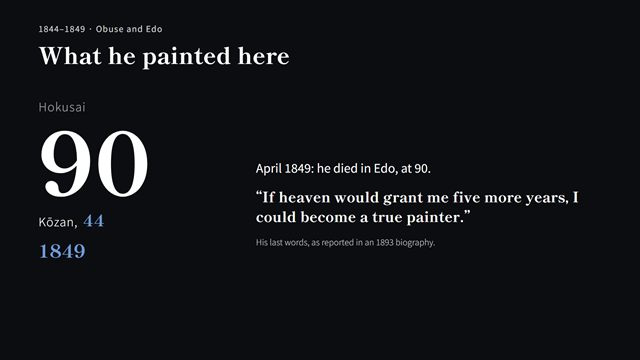
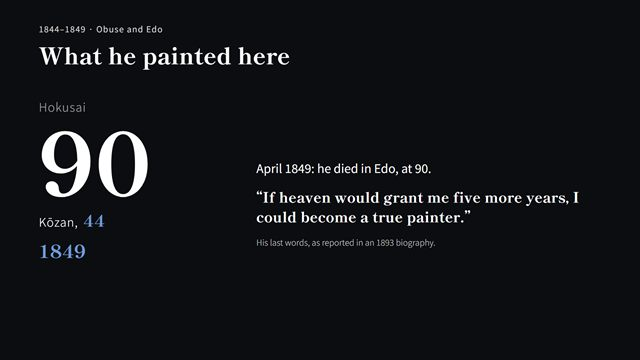
Add photos of the Higashimachi and Kanmachi festival floats

diff --git a/index.html b/index.html
@@ -251,12 +251,15 @@
   </div>
   <div class="works">
     <div class="wk bd" data-x="1">
-      <div class="wk-frame"><span class="ja">龍</span><span class="ja">鳳凰</span><span class="en">Dragon</span><span class="en">Phoenix</span></div>
+      <figure class="wk-img zoomable" data-cap-ja="東町祭屋台（北斎館）" data-cap-en="The Higashimachi festival float (Hokusai Museum)"><img src="img/float-higashimachi.webp" alt="東町祭屋台"><figcaption class="wk-c"><span class="ja">東町祭屋台</span><span class="en">Higashimachi float</span></figcaption></figure>
       <p class="wk-t"><span class="ja">東町の祭屋台の天井に、『龍』と『鳳凰』。</span><span class="en">For the ceiling of the Higashimachi festival float: a dragon and a phoenix.</span></p>
       <span class="pin"><span class="ja">1日目　北斎館</span><span class="en">Day 1 · Hokusai Museum</span></span>
     </div>
     <div class="wk bd" data-b="1" data-x="2">
-      <figure class="wk-img zoomable" data-cap-ja="上町祭屋台の天井絵「男浪・女浪」1845年　葛飾北斎" data-cap-en="“Male and Female Waves,” Kanmachi float ceiling, 1845 · Hokusai"><img src="img/dotozu.jpg" alt="男浪・女浪"></figure>
+      <div class="wk-pair">
+        <figure class="wk-img zoomable" data-cap-ja="上町祭屋台（北斎館）" data-cap-en="The Kanmachi festival float (Hokusai Museum)"><img src="img/float-kanmachi.webp" alt="上町祭屋台"><figcaption class="wk-c"><span class="ja">上町祭屋台</span><span class="en">Kanmachi float</span></figcaption></figure>
+        <figure class="wk-img zoomable" data-cap-ja="上町祭屋台の天井絵「男浪・女浪」1845年　葛飾北斎" data-cap-en="“Male and Female Waves,” Kanmachi float ceiling, 1845 · Hokusai"><img src="img/dotozu.jpg" alt="男浪・女浪"><figcaption class="wk-c"><span class="ja">天井絵「男浪・女浪」</span><span class="en">Ceiling: the two waves</span></figcaption></figure>
+      </div>
       <p class="wk-t"><span class="ja">上町の祭屋台。鴻山が私財で建て、天井を北斎に任せた。大波の『男浪』と『女浪』。</span><span class="en">The Kanmachi float: Kōzan paid for it and gave Hokusai the ceiling — two great waves, “Male” and “Female.”</span></p>
       <p class="wk-s"><span class="ja">縁の花鳥は、北斎の下絵に鴻山が色を塗ったと考えられている。この年は3月から9月まで、半年あまり滞在したとみられる。</span><span class="en">The flowers and birds on the border are thought to be Kōzan’s colouring over Hokusai’s drawing. That year Hokusai seems to have stayed from March to September.</span></p>
       <span class="pin"><span class="ja">1日目　北斎館</span><span class="en">Day 1 · Hokusai Museum</span></span>

diff --git a/css/deck.css b/css/deck.css
@@ -243,7 +243,11 @@ html[lang=en] .wk-q{font-size:calc(var(--u)*4);line-height:1.35}
   font-family:"ShipporiX",serif;font-weight:800;font-size:calc(var(--u)*7);color:rgba(169,207,255,.85)}
 html[lang=en] .wk-frame span{font-size:calc(var(--u)*4)}
 .wk-img{margin:0 0 calc(var(--u)*1)}
-.wk-img img{display:block;width:min(100%,calc(var(--u)*84));height:auto;box-shadow:0 calc(var(--u)*2) calc(var(--u)*6) rgba(0,0,0,.6)}
+.wk-img img{display:block;width:auto;max-width:100%;height:calc(var(--u)*40);object-fit:contain;box-shadow:0 calc(var(--u)*2) calc(var(--u)*6) rgba(0,0,0,.6)}
+.wk-pair{display:flex;gap:calc(var(--u)*2);align-items:flex-start}
+.wk-pair .wk-img{min-width:0}
+.wk-pair .wk-img img{height:calc(var(--u)*30)}
+.wk-c{margin-top:calc(var(--u)*1);font-size:calc(var(--u)*1.9);color:var(--dim);letter-spacing:.1em}
 .tatami{display:grid;grid-template-columns:repeat(7,calc(var(--u)*5.4));grid-auto-rows:calc(var(--u)*10.8);gap:3px;margin-bottom:calc(var(--u)*1)}
 .tatami i{display:block;border:1px solid rgba(111,154,216,.65);background:rgba(42,91,168,.14);opacity:0;transform:scale(.85);
   transition:opacity .6s var(--ease) calc(.3s + var(--i)*55ms),transform .8s var(--ease) calc(.3s + var(--i)*55ms)}

diff --git a/README.md b/README.md
@@ -93,4 +93,4 @@ powershell -ExecutionPolicy Bypass -File tools\subset-fonts.ps1
 - 小布施の地形図：国土地理院 地理院タイル（標高タイル）を加工して作成
 - 川・町境・地点：© OpenStreetMap contributors（ODbL）
 - 地図上の「かつての松川」「千両堤」「谷街道」の線は位置を示す模式図
-- 高井鴻山像（横山上龍筆）、鴻山の花の絵・妖怪画、上町祭屋台天井絵「男浪・女浪」、北斎『鳳凰』、『象と唐人図』：制作者から提供された画像。掲載条件は各所蔵先に従う
+- 東町祭屋台・上町祭屋台の写真、高井鴻山像（横山上龍筆）、鴻山の花の絵・妖怪画、上町祭屋台天井絵「男浪・女浪」、北斎『鳳凰』、『象と唐人図』：制作者から提供された画像。掲載条件は各所蔵先に従う
